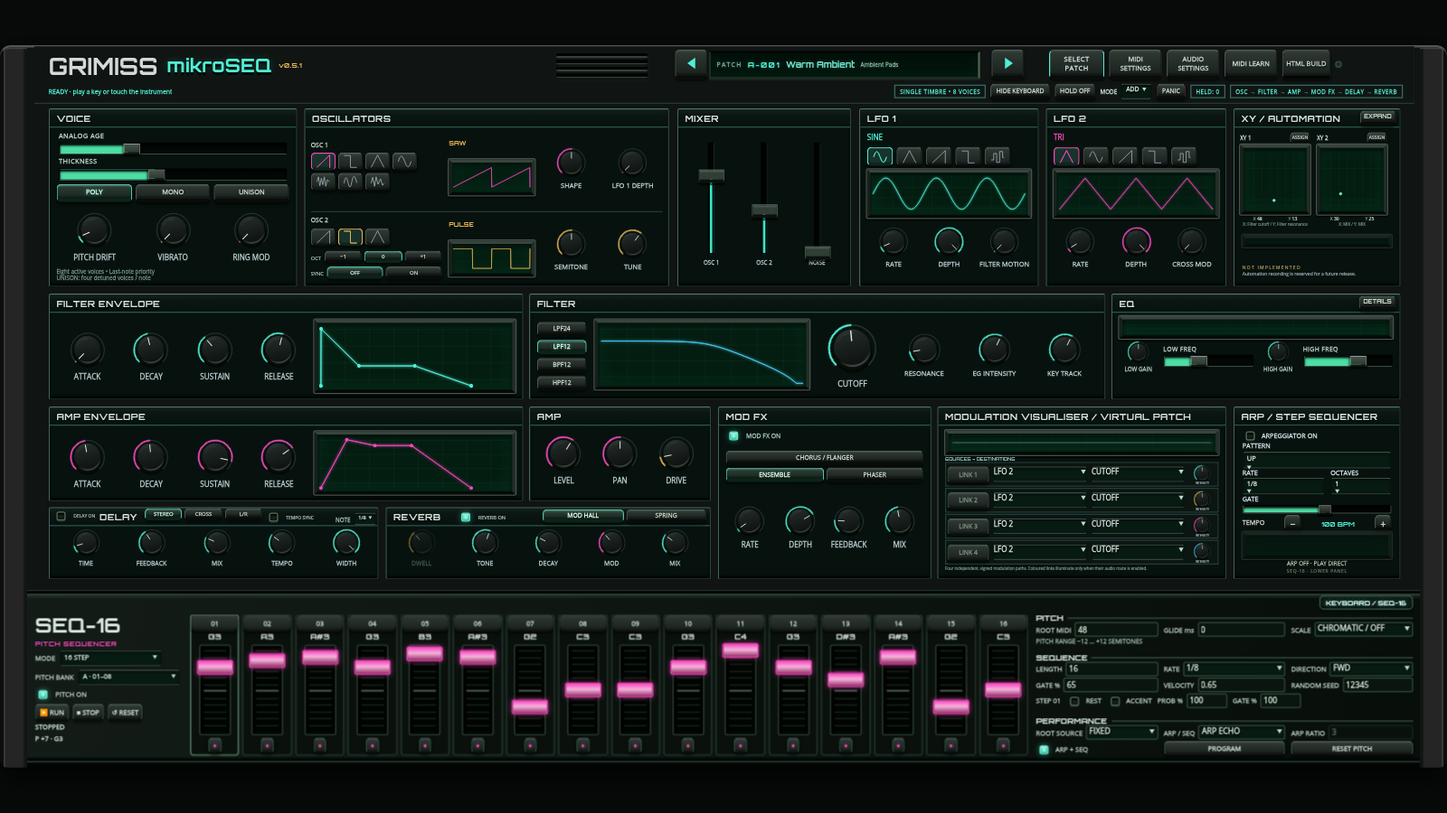
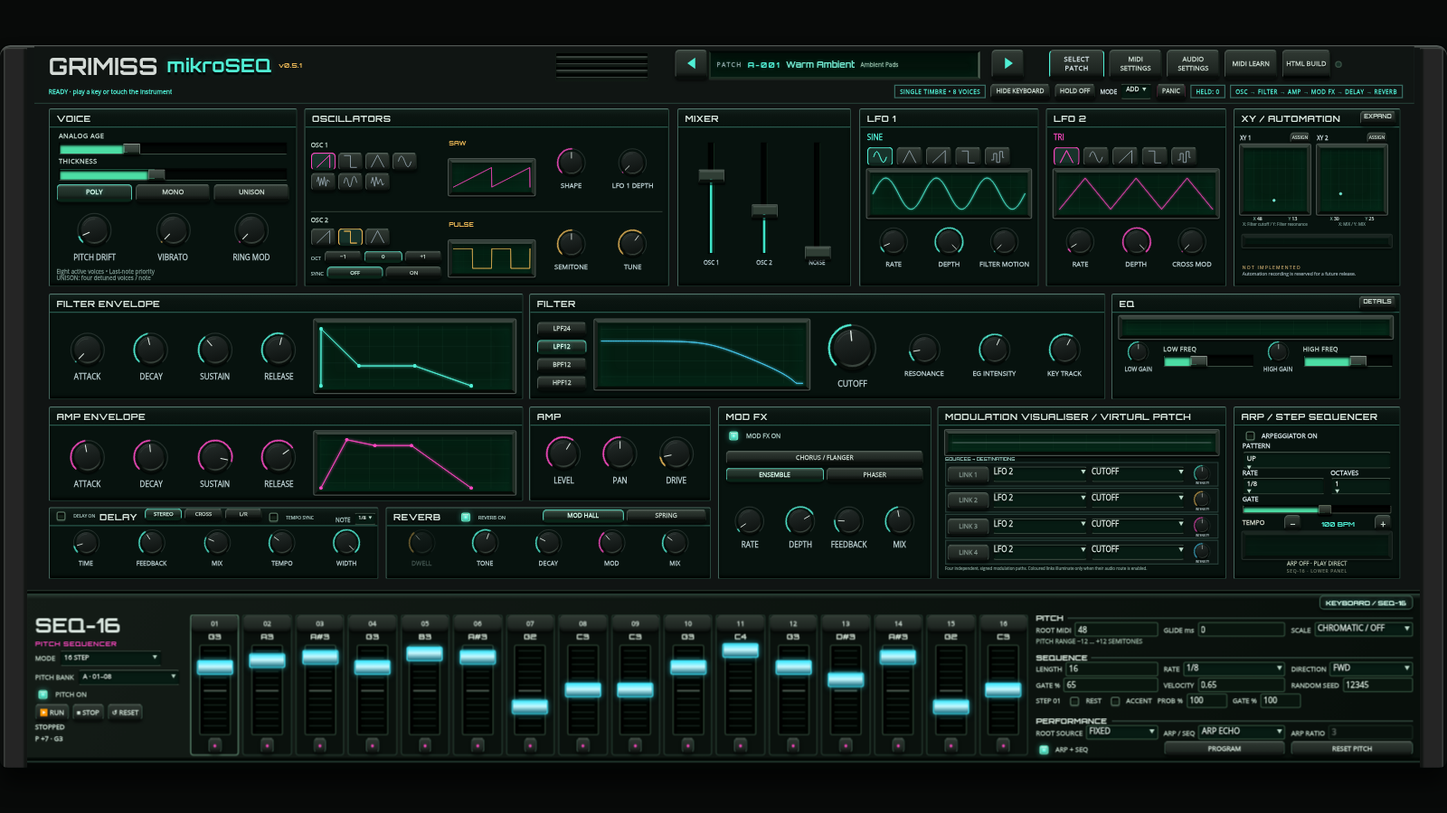
Synchronize sequencer direction controls and use cyan fader caps

diff --git a/GRIMISS_mAMB_Synth_v0_3_3_Filter_Fix.html b/GRIMISS_mAMB_Synth_v0_3_3_Filter_Fix.html
@@ -1277,7 +1277,7 @@ html.fit-screen.reference-geometry.control-refinement main .seq-face button{min-
 .seq-step .seq-track{position:relative;width:28px;flex:1;margin:2px 0;background:#010502;border:1px solid #2e4535;box-shadow:inset 2px 0 3px #000;border-radius:2px}
 .seq-scale{position:absolute;inset:2px 3px;background:repeating-linear-gradient(to top,transparent 0 5px,#47715c66 5px 6px);pointer-events:none}
 .seq-scale:after{content:'';position:absolute;left:0;right:0;top:50%;height:1px;background:#b8c9bc88}
-html.fit-screen.reference-geometry.control-refinement main .seq-face .seq-handle.pitch{position:absolute;left:-3px;width:32px!important;height:13px!important;min-height:13px!important;min-width:0!important;margin:0;transform:translateY(50%);border:1px solid #fa48c0!important;border-radius:2px!important;padding:0!important;touch-action:none;cursor:ns-resize;outline-offset:2px;background:linear-gradient(#fa48c0,#f5b4dd 45%,#973167)!important;box-shadow:0 0 5px #fa48c088!important}
+html.fit-screen.reference-geometry.control-refinement main .seq-face .seq-handle.pitch{position:absolute;left:-3px;width:32px!important;height:13px!important;min-height:13px!important;min-width:0!important;margin:0;transform:translateY(50%);border:1px solid #42eaff!important;border-radius:2px!important;padding:0!important;touch-action:none;cursor:ns-resize;outline-offset:2px;background:linear-gradient(#42eaff,#c8faff 45%,#176e80)!important;box-shadow:0 0 5px #42eaff88!important}
 .seq-step-note{display:block;height:10px;line-height:10px;font:800 7px Orbitron,monospace;color:#dbeadd;white-space:nowrap;text-align:center}
 .seq-step.pitch-active{border-color:#ffc15a!important;background:#322510;box-shadow:0 0 7px 2px #ffb52eaa,inset 0 0 7px #ffb52e88!important;z-index:1}
 .seq-step.pitch-active .seq-step-note,.seq-step.pitch-active .seq-step-number{color:#ffe3a3!important;text-shadow:0 0 4px #ffb52e}
@@ -2796,8 +2796,8 @@ function refreshInstrumentUI(){if(!window.mambInterfaceReady)return;window.mambR
  function setFace(value){face=value==='seq'?'seq':'keyboard';panel.classList.toggle('seq-show',face==='seq');keyboard.inert=face==='seq';keyboard.setAttribute('aria-hidden',String(face==='seq'));back.inert=face!=='seq';back.setAttribute('aria-hidden',String(face!=='seq'));toggle.setAttribute('aria-pressed',String(face==='seq'));try{localStorage.setItem(sessionKey,JSON.stringify({state,face}));}catch{}}
  function paintNotes(snapshot){const r=snapshot?.rootSelection,root=r&&state.rootSource!=='fixed'?r.root:state.root,scale=r&&state.rootSource==='program'?r.scale:state.scale;for(let i=0;i<16;i++){const label=slots.children[i].querySelector('.seq-step-note');label.textContent=name(seq16Quantize(root+state.pitch[i],root,scale));label.title='Root-relative sequence note; in arp modes the held arp note is transposed then scale-snapped';}}
  function paint(){paintNotes(latestEngineState?.sequencer);for(let i=0;i<16;i++){const slot=slots.children[i];slot.classList.toggle('selected',i===selected);slot.classList.toggle('rest',state.rests[i]);for(const layer of ['pitch']){const h=handles[i][layer],value=state[layer][i],normalized=(value+12)/24;h.style.bottom='calc(4px + (100% - 8px) * '+normalized+')';h.style.zIndex=focus===layer?'3':'2';h.setAttribute('aria-valuenow',value);h.setAttribute('aria-valuetext',(value>=0?'+':'')+value+' semitones');}}
- el('editBank').value=editBank;el('editBank').disabled=state.layout!=='dual8';for(const[k,raw]of Object.entries(state)){const v=state[field(k)]??raw,n=el(k);if(!n||document.activeElement===n)continue;if(n.type==='checkbox')n.checked=v;else if(!Array.isArray(v))n.value=String(v);}el('selected').textContent='STEP '+String(selected+1).padStart(2,'0');el('stepRest').checked=state.rests[selected];el('stepAccent').checked=state.accents[selected];el('stepProbability').value=String(Math.round(state.probability[selected]*100));el('stepGate').value=String(Math.round(state.stepGates[selected]*100));el('value').textContent='P '+(state.pitch[selected]>=0?'+':'')+state.pitch[selected]+' · '+name(seq16Quantize(state.root+state.pitch[selected],state.root,state.scale));el('pitchLength').max=state.layout==='dual8'?8:16;el('ratio').disabled=!state.combined||state.mode!=='poly';el('migration').textContent=state.legacyMode?'OLD DRIFT MODE REMOVED · ARP + SEQ OFF':'';paintProgram();}
- for(const n of back.querySelectorAll('.seq-settings input,.seq-settings select,.seq-left input,.seq-left select'))n.addEventListener('change',()=>{const k=n.id.slice(4);if(k==='editBank'){editBank=n.value;paint();return;}if(k==='stepGate')state.stepGates[selected]=Number(n.value)/100;else if(k==='stepRest')state.rests[selected]=n.checked;else if(k==='stepAccent')state.accents[selected]=n.checked;else if(k==='stepProbability')state.probability[selected]=Number(n.value)/100;else if(k in state){if(k==='mode'||k==='combined')delete state.legacyMode;const key=field(k);state[key]=n.type==='checkbox'?n.checked:typeof state[key]==='number'?Number(n.value):n.value;}state=mambNormalizeSeq(state);changed();});
+ el('editBank').value=editBank;el('editBank').disabled=state.layout!=='dual8';for(const[k,raw]of Object.entries(state)){const v=state[field(k)]??raw,n=el(k);if(!n||(document.activeElement===n&&n.tagName==='INPUT'&&n.type!=='checkbox'))continue;if(n.type==='checkbox')n.checked=v;else if(!Array.isArray(v))n.value=String(v);}el('selected').textContent='STEP '+String(selected+1).padStart(2,'0');el('stepRest').checked=state.rests[selected];el('stepAccent').checked=state.accents[selected];el('stepProbability').value=String(Math.round(state.probability[selected]*100));el('stepGate').value=String(Math.round(state.stepGates[selected]*100));el('value').textContent='P '+(state.pitch[selected]>=0?'+':'')+state.pitch[selected]+' · '+name(seq16Quantize(state.root+state.pitch[selected],state.root,state.scale));el('pitchLength').max=state.layout==='dual8'?8:16;el('ratio').disabled=!state.combined||state.mode!=='poly';el('migration').textContent=state.legacyMode?'OLD DRIFT MODE REMOVED · ARP + SEQ OFF':'';paintProgram();}
+ for(const n of back.querySelectorAll('.seq-settings input,.seq-settings select,.seq-left input,.seq-left select'))n.addEventListener('change',()=>{const k=n.id.slice(4);if(k==='editBank'){editBank=n.value;paint();return;}if(k==='stepGate')state.stepGates[selected]=Number(n.value)/100;else if(k==='stepRest')state.rests[selected]=n.checked;else if(k==='stepAccent')state.accents[selected]=n.checked;else if(k==='stepProbability')state.probability[selected]=Number(n.value)/100;else if(k in state){if(k==='mode'||k==='combined')delete state.legacyMode;const key=field(k);state[key]=n.type==='checkbox'?n.checked:typeof state[key]==='number'?Number(n.value):n.value;}state=mambNormalizeSeq(state);changed();if(k==='pitchDirection')sendConfig();});
  toggle.onclick=()=>setFace(face==='keyboard'?'seq':'keyboard');
  for(const action of ['run','stop','reset'])el(action).onclick=async()=>{if(action==='run')await start();sendConfig();send({type:'seqTransport',action});refreshState();};for(const layer of ['pitch'])el('reset-'+layer).onclick=()=>send({type:'seqTransport',action:'reset',layer});
  window.addEventListener('mamb-audio-ready',()=>sendConfig());window.addEventListener('mamb-panic',()=>{el('status').textContent='STOPPED · PANIC';});
@@ -2811,7 +2811,7 @@ function refreshInstrumentUI(){if(!window.mambInterfaceReady)return;window.mambR
  window.addEventListener('mamb-panic',()=>{capturedRoots.clear();programIntent=false;programRunning=false;});
  window.mambSeq16={serialize,load,setFace,edit,selectStep,captureNoteOn,captureNoteOff,releaseLocalRoots,releaseSource,openProgram,get programEdit(){return programEdit;},get face(){return face;},flush:sendConfig};
  try{const saved=JSON.parse(localStorage.getItem(sessionKey)||'null');if(saved){if(!window.mambPendingSeq16)state=mambNormalizeSeq(saved.state);face=saved.face==='seq'?'seq':'keyboard';}}catch{}
- setFace(face);paint();setInterval(()=>{if(dirty)sendConfig();const s=latestEngineState?.sequencer;paintNotes(s);if(s?.rootSelection){if(programIntent!==null&&s.rootSelection.programRunning===programIntent)programIntent=null;programRunning=programIntent??s.rootSelection.programRunning;if(state.rootSource!=='fixed'&&focus==='pitch')el('value').textContent='P '+(state.pitch[selected]>=0?'+':'')+state.pitch[selected]+' · '+name(Math.max(0,Math.min(127,s.rootSelection.root+state.pitch[selected])));el('program-run').setAttribute('aria-pressed',String(programRunning));for(let i=0;i<8;i++)strip.children[i].classList.toggle('playing',programRunning&&s.rootSelection.programSlot===i);}for(let i=0;i<16;i++){slots.children[i].classList.toggle('pitch-active',!!s?.running&&((state.pitchOn&&s.pitchStep===i)||(state.layout==='dual8'&&state.bPitchOn&&s.bankB?.pitchStep+8===i)));}el('status').textContent=s?.running&&state.combined&&!document.getElementById('arpOn').checked?'RUN · ENABLE ARP ABOVE':s?.running?'RUN · P '+String(s.pitchStep+1).padStart(2,'0'):'STOPPED';},50);window.mambSeq16Ready=true;
+ setFace(face);paint();setInterval(()=>{if(dirty)sendConfig();const s=latestEngineState?.sequencer;paintNotes(s);if(s?.rootSelection){if(programIntent!==null&&s.rootSelection.programRunning===programIntent)programIntent=null;programRunning=programIntent??s.rootSelection.programRunning;if(state.rootSource!=='fixed'&&focus==='pitch')el('value').textContent='P '+(state.pitch[selected]>=0?'+':'')+state.pitch[selected]+' · '+name(Math.max(0,Math.min(127,s.rootSelection.root+state.pitch[selected])));el('program-run').setAttribute('aria-pressed',String(programRunning));for(let i=0;i<8;i++)strip.children[i].classList.toggle('playing',programRunning&&s.rootSelection.programSlot===i);}for(let i=0;i<16;i++){slots.children[i].classList.toggle('pitch-active',!!s?.running&&((state.pitchOn&&s.pitchStep===i)||(state.layout==='dual8'&&state.bPitchOn&&s.bankB?.pitchStep+8===i)));}const dir=d=>({forward:'FWD',reverse:'REV',pendulum:'PEND',random:'RANDOM'})[d]||'FWD';el('status').textContent=s?.running&&state.combined&&!document.getElementById('arpOn').checked?'RUN · ENABLE ARP ABOVE':s?.running?(s.layout==='dual8'?'RUN · A '+dir(s.config.pitchDirection)+' / B '+dir(s.config.bPitchDirection):'RUN · P '+String(s.pitchStep+1).padStart(2,'0')+' · '+dir(s.config.pitchDirection)):'STOPPED';},50);window.mambSeq16Ready=true;
 })();
 
 </script>

diff --git a/dist/GRIMISS_mAMB_v0_5_1.html b/dist/GRIMISS_mAMB_v0_5_1.html
@@ -1277,7 +1277,7 @@ html.fit-screen.reference-geometry.control-refinement main .seq-face button{min-
 .seq-step .seq-track{position:relative;width:28px;flex:1;margin:2px 0;background:#010502;border:1px solid #2e4535;box-shadow:inset 2px 0 3px #000;border-radius:2px}
 .seq-scale{position:absolute;inset:2px 3px;background:repeating-linear-gradient(to top,transparent 0 5px,#47715c66 5px 6px);pointer-events:none}
 .seq-scale:after{content:'';position:absolute;left:0;right:0;top:50%;height:1px;background:#b8c9bc88}
-html.fit-screen.reference-geometry.control-refinement main .seq-face .seq-handle.pitch{position:absolute;left:-3px;width:32px!important;height:13px!important;min-height:13px!important;min-width:0!important;margin:0;transform:translateY(50%);border:1px solid #fa48c0!important;border-radius:2px!important;padding:0!important;touch-action:none;cursor:ns-resize;outline-offset:2px;background:linear-gradient(#fa48c0,#f5b4dd 45%,#973167)!important;box-shadow:0 0 5px #fa48c088!important}
+html.fit-screen.reference-geometry.control-refinement main .seq-face .seq-handle.pitch{position:absolute;left:-3px;width:32px!important;height:13px!important;min-height:13px!important;min-width:0!important;margin:0;transform:translateY(50%);border:1px solid #42eaff!important;border-radius:2px!important;padding:0!important;touch-action:none;cursor:ns-resize;outline-offset:2px;background:linear-gradient(#42eaff,#c8faff 45%,#176e80)!important;box-shadow:0 0 5px #42eaff88!important}
 .seq-step-note{display:block;height:10px;line-height:10px;font:800 7px Orbitron,monospace;color:#dbeadd;white-space:nowrap;text-align:center}
 .seq-step.pitch-active{border-color:#ffc15a!important;background:#322510;box-shadow:0 0 7px 2px #ffb52eaa,inset 0 0 7px #ffb52e88!important;z-index:1}
 .seq-step.pitch-active .seq-step-note,.seq-step.pitch-active .seq-step-number{color:#ffe3a3!important;text-shadow:0 0 4px #ffb52e}
@@ -2796,8 +2796,8 @@ function refreshInstrumentUI(){if(!window.mambInterfaceReady)return;window.mambR
  function setFace(value){face=value==='seq'?'seq':'keyboard';panel.classList.toggle('seq-show',face==='seq');keyboard.inert=face==='seq';keyboard.setAttribute('aria-hidden',String(face==='seq'));back.inert=face!=='seq';back.setAttribute('aria-hidden',String(face!=='seq'));toggle.setAttribute('aria-pressed',String(face==='seq'));try{localStorage.setItem(sessionKey,JSON.stringify({state,face}));}catch{}}
  function paintNotes(snapshot){const r=snapshot?.rootSelection,root=r&&state.rootSource!=='fixed'?r.root:state.root,scale=r&&state.rootSource==='program'?r.scale:state.scale;for(let i=0;i<16;i++){const label=slots.children[i].querySelector('.seq-step-note');label.textContent=name(seq16Quantize(root+state.pitch[i],root,scale));label.title='Root-relative sequence note; in arp modes the held arp note is transposed then scale-snapped';}}
  function paint(){paintNotes(latestEngineState?.sequencer);for(let i=0;i<16;i++){const slot=slots.children[i];slot.classList.toggle('selected',i===selected);slot.classList.toggle('rest',state.rests[i]);for(const layer of ['pitch']){const h=handles[i][layer],value=state[layer][i],normalized=(value+12)/24;h.style.bottom='calc(4px + (100% - 8px) * '+normalized+')';h.style.zIndex=focus===layer?'3':'2';h.setAttribute('aria-valuenow',value);h.setAttribute('aria-valuetext',(value>=0?'+':'')+value+' semitones');}}
- el('editBank').value=editBank;el('editBank').disabled=state.layout!=='dual8';for(const[k,raw]of Object.entries(state)){const v=state[field(k)]??raw,n=el(k);if(!n||document.activeElement===n)continue;if(n.type==='checkbox')n.checked=v;else if(!Array.isArray(v))n.value=String(v);}el('selected').textContent='STEP '+String(selected+1).padStart(2,'0');el('stepRest').checked=state.rests[selected];el('stepAccent').checked=state.accents[selected];el('stepProbability').value=String(Math.round(state.probability[selected]*100));el('stepGate').value=String(Math.round(state.stepGates[selected]*100));el('value').textContent='P '+(state.pitch[selected]>=0?'+':'')+state.pitch[selected]+' · '+name(seq16Quantize(state.root+state.pitch[selected],state.root,state.scale));el('pitchLength').max=state.layout==='dual8'?8:16;el('ratio').disabled=!state.combined||state.mode!=='poly';el('migration').textContent=state.legacyMode?'OLD DRIFT MODE REMOVED · ARP + SEQ OFF':'';paintProgram();}
- for(const n of back.querySelectorAll('.seq-settings input,.seq-settings select,.seq-left input,.seq-left select'))n.addEventListener('change',()=>{const k=n.id.slice(4);if(k==='editBank'){editBank=n.value;paint();return;}if(k==='stepGate')state.stepGates[selected]=Number(n.value)/100;else if(k==='stepRest')state.rests[selected]=n.checked;else if(k==='stepAccent')state.accents[selected]=n.checked;else if(k==='stepProbability')state.probability[selected]=Number(n.value)/100;else if(k in state){if(k==='mode'||k==='combined')delete state.legacyMode;const key=field(k);state[key]=n.type==='checkbox'?n.checked:typeof state[key]==='number'?Number(n.value):n.value;}state=mambNormalizeSeq(state);changed();});
+ el('editBank').value=editBank;el('editBank').disabled=state.layout!=='dual8';for(const[k,raw]of Object.entries(state)){const v=state[field(k)]??raw,n=el(k);if(!n||(document.activeElement===n&&n.tagName==='INPUT'&&n.type!=='checkbox'))continue;if(n.type==='checkbox')n.checked=v;else if(!Array.isArray(v))n.value=String(v);}el('selected').textContent='STEP '+String(selected+1).padStart(2,'0');el('stepRest').checked=state.rests[selected];el('stepAccent').checked=state.accents[selected];el('stepProbability').value=String(Math.round(state.probability[selected]*100));el('stepGate').value=String(Math.round(state.stepGates[selected]*100));el('value').textContent='P '+(state.pitch[selected]>=0?'+':'')+state.pitch[selected]+' · '+name(seq16Quantize(state.root+state.pitch[selected],state.root,state.scale));el('pitchLength').max=state.layout==='dual8'?8:16;el('ratio').disabled=!state.combined||state.mode!=='poly';el('migration').textContent=state.legacyMode?'OLD DRIFT MODE REMOVED · ARP + SEQ OFF':'';paintProgram();}
+ for(const n of back.querySelectorAll('.seq-settings input,.seq-settings select,.seq-left input,.seq-left select'))n.addEventListener('change',()=>{const k=n.id.slice(4);if(k==='editBank'){editBank=n.value;paint();return;}if(k==='stepGate')state.stepGates[selected]=Number(n.value)/100;else if(k==='stepRest')state.rests[selected]=n.checked;else if(k==='stepAccent')state.accents[selected]=n.checked;else if(k==='stepProbability')state.probability[selected]=Number(n.value)/100;else if(k in state){if(k==='mode'||k==='combined')delete state.legacyMode;const key=field(k);state[key]=n.type==='checkbox'?n.checked:typeof state[key]==='number'?Number(n.value):n.value;}state=mambNormalizeSeq(state);changed();if(k==='pitchDirection')sendConfig();});
  toggle.onclick=()=>setFace(face==='keyboard'?'seq':'keyboard');
  for(const action of ['run','stop','reset'])el(action).onclick=async()=>{if(action==='run')await start();sendConfig();send({type:'seqTransport',action});refreshState();};for(const layer of ['pitch'])el('reset-'+layer).onclick=()=>send({type:'seqTransport',action:'reset',layer});
  window.addEventListener('mamb-audio-ready',()=>sendConfig());window.addEventListener('mamb-panic',()=>{el('status').textContent='STOPPED · PANIC';});
@@ -2811,7 +2811,7 @@ function refreshInstrumentUI(){if(!window.mambInterfaceReady)return;window.mambR
  window.addEventListener('mamb-panic',()=>{capturedRoots.clear();programIntent=false;programRunning=false;});
  window.mambSeq16={serialize,load,setFace,edit,selectStep,captureNoteOn,captureNoteOff,releaseLocalRoots,releaseSource,openProgram,get programEdit(){return programEdit;},get face(){return face;},flush:sendConfig};
  try{const saved=JSON.parse(localStorage.getItem(sessionKey)||'null');if(saved){if(!window.mambPendingSeq16)state=mambNormalizeSeq(saved.state);face=saved.face==='seq'?'seq':'keyboard';}}catch{}
- setFace(face);paint();setInterval(()=>{if(dirty)sendConfig();const s=latestEngineState?.sequencer;paintNotes(s);if(s?.rootSelection){if(programIntent!==null&&s.rootSelection.programRunning===programIntent)programIntent=null;programRunning=programIntent??s.rootSelection.programRunning;if(state.rootSource!=='fixed'&&focus==='pitch')el('value').textContent='P '+(state.pitch[selected]>=0?'+':'')+state.pitch[selected]+' · '+name(Math.max(0,Math.min(127,s.rootSelection.root+state.pitch[selected])));el('program-run').setAttribute('aria-pressed',String(programRunning));for(let i=0;i<8;i++)strip.children[i].classList.toggle('playing',programRunning&&s.rootSelection.programSlot===i);}for(let i=0;i<16;i++){slots.children[i].classList.toggle('pitch-active',!!s?.running&&((state.pitchOn&&s.pitchStep===i)||(state.layout==='dual8'&&state.bPitchOn&&s.bankB?.pitchStep+8===i)));}el('status').textContent=s?.running&&state.combined&&!document.getElementById('arpOn').checked?'RUN · ENABLE ARP ABOVE':s?.running?'RUN · P '+String(s.pitchStep+1).padStart(2,'0'):'STOPPED';},50);window.mambSeq16Ready=true;
+ setFace(face);paint();setInterval(()=>{if(dirty)sendConfig();const s=latestEngineState?.sequencer;paintNotes(s);if(s?.rootSelection){if(programIntent!==null&&s.rootSelection.programRunning===programIntent)programIntent=null;programRunning=programIntent??s.rootSelection.programRunning;if(state.rootSource!=='fixed'&&focus==='pitch')el('value').textContent='P '+(state.pitch[selected]>=0?'+':'')+state.pitch[selected]+' · '+name(Math.max(0,Math.min(127,s.rootSelection.root+state.pitch[selected])));el('program-run').setAttribute('aria-pressed',String(programRunning));for(let i=0;i<8;i++)strip.children[i].classList.toggle('playing',programRunning&&s.rootSelection.programSlot===i);}for(let i=0;i<16;i++){slots.children[i].classList.toggle('pitch-active',!!s?.running&&((state.pitchOn&&s.pitchStep===i)||(state.layout==='dual8'&&state.bPitchOn&&s.bankB?.pitchStep+8===i)));}const dir=d=>({forward:'FWD',reverse:'REV',pendulum:'PEND',random:'RANDOM'})[d]||'FWD';el('status').textContent=s?.running&&state.combined&&!document.getElementById('arpOn').checked?'RUN · ENABLE ARP ABOVE':s?.running?(s.layout==='dual8'?'RUN · A '+dir(s.config.pitchDirection)+' / B '+dir(s.config.bPitchDirection):'RUN · P '+String(s.pitchStep+1).padStart(2,'0')+' · '+dir(s.config.pitchDirection)):'STOPPED';},50);window.mambSeq16Ready=true;
 })();
 
 </script>

diff --git a/dist/GRIMISS_mAMB_v0_7.html b/dist/GRIMISS_mAMB_v0_7.html
@@ -1277,7 +1277,7 @@ html.fit-screen.reference-geometry.control-refinement main .seq-face button{min-
 .seq-step .seq-track{position:relative;width:28px;flex:1;margin:2px 0;background:#010502;border:1px solid #2e4535;box-shadow:inset 2px 0 3px #000;border-radius:2px}
 .seq-scale{position:absolute;inset:2px 3px;background:repeating-linear-gradient(to top,transparent 0 5px,#47715c66 5px 6px);pointer-events:none}
 .seq-scale:after{content:'';position:absolute;left:0;right:0;top:50%;height:1px;background:#b8c9bc88}
-html.fit-screen.reference-geometry.control-refinement main .seq-face .seq-handle.pitch{position:absolute;left:-3px;width:32px!important;height:13px!important;min-height:13px!important;min-width:0!important;margin:0;transform:translateY(50%);border:1px solid #fa48c0!important;border-radius:2px!important;padding:0!important;touch-action:none;cursor:ns-resize;outline-offset:2px;background:linear-gradient(#fa48c0,#f5b4dd 45%,#973167)!important;box-shadow:0 0 5px #fa48c088!important}
+html.fit-screen.reference-geometry.control-refinement main .seq-face .seq-handle.pitch{position:absolute;left:-3px;width:32px!important;height:13px!important;min-height:13px!important;min-width:0!important;margin:0;transform:translateY(50%);border:1px solid #42eaff!important;border-radius:2px!important;padding:0!important;touch-action:none;cursor:ns-resize;outline-offset:2px;background:linear-gradient(#42eaff,#c8faff 45%,#176e80)!important;box-shadow:0 0 5px #42eaff88!important}
 .seq-step-note{display:block;height:10px;line-height:10px;font:800 7px Orbitron,monospace;color:#dbeadd;white-space:nowrap;text-align:center}
 .seq-step.pitch-active{border-color:#ffc15a!important;background:#322510;box-shadow:0 0 7px 2px #ffb52eaa,inset 0 0 7px #ffb52e88!important;z-index:1}
 .seq-step.pitch-active .seq-step-note,.seq-step.pitch-active .seq-step-number{color:#ffe3a3!important;text-shadow:0 0 4px #ffb52e}
@@ -2796,8 +2796,8 @@ function refreshInstrumentUI(){if(!window.mambInterfaceReady)return;window.mambR
  function setFace(value){face=value==='seq'?'seq':'keyboard';panel.classList.toggle('seq-show',face==='seq');keyboard.inert=face==='seq';keyboard.setAttribute('aria-hidden',String(face==='seq'));back.inert=face!=='seq';back.setAttribute('aria-hidden',String(face!=='seq'));toggle.setAttribute('aria-pressed',String(face==='seq'));try{localStorage.setItem(sessionKey,JSON.stringify({state,face}));}catch{}}
  function paintNotes(snapshot){const r=snapshot?.rootSelection,root=r&&state.rootSource!=='fixed'?r.root:state.root,scale=r&&state.rootSource==='program'?r.scale:state.scale;for(let i=0;i<16;i++){const label=slots.children[i].querySelector('.seq-step-note');label.textContent=name(seq16Quantize(root+state.pitch[i],root,scale));label.title='Root-relative sequence note; in arp modes the held arp note is transposed then scale-snapped';}}
  function paint(){paintNotes(latestEngineState?.sequencer);for(let i=0;i<16;i++){const slot=slots.children[i];slot.classList.toggle('selected',i===selected);slot.classList.toggle('rest',state.rests[i]);for(const layer of ['pitch']){const h=handles[i][layer],value=state[layer][i],normalized=(value+12)/24;h.style.bottom='calc(4px + (100% - 8px) * '+normalized+')';h.style.zIndex=focus===layer?'3':'2';h.setAttribute('aria-valuenow',value);h.setAttribute('aria-valuetext',(value>=0?'+':'')+value+' semitones');}}
- el('editBank').value=editBank;el('editBank').disabled=state.layout!=='dual8';for(const[k,raw]of Object.entries(state)){const v=state[field(k)]??raw,n=el(k);if(!n||document.activeElement===n)continue;if(n.type==='checkbox')n.checked=v;else if(!Array.isArray(v))n.value=String(v);}el('selected').textContent='STEP '+String(selected+1).padStart(2,'0');el('stepRest').checked=state.rests[selected];el('stepAccent').checked=state.accents[selected];el('stepProbability').value=String(Math.round(state.probability[selected]*100));el('stepGate').value=String(Math.round(state.stepGates[selected]*100));el('value').textContent='P '+(state.pitch[selected]>=0?'+':'')+state.pitch[selected]+' · '+name(seq16Quantize(state.root+state.pitch[selected],state.root,state.scale));el('pitchLength').max=state.layout==='dual8'?8:16;el('ratio').disabled=!state.combined||state.mode!=='poly';el('migration').textContent=state.legacyMode?'OLD DRIFT MODE REMOVED · ARP + SEQ OFF':'';paintProgram();}
- for(const n of back.querySelectorAll('.seq-settings input,.seq-settings select,.seq-left input,.seq-left select'))n.addEventListener('change',()=>{const k=n.id.slice(4);if(k==='editBank'){editBank=n.value;paint();return;}if(k==='stepGate')state.stepGates[selected]=Number(n.value)/100;else if(k==='stepRest')state.rests[selected]=n.checked;else if(k==='stepAccent')state.accents[selected]=n.checked;else if(k==='stepProbability')state.probability[selected]=Number(n.value)/100;else if(k in state){if(k==='mode'||k==='combined')delete state.legacyMode;const key=field(k);state[key]=n.type==='checkbox'?n.checked:typeof state[key]==='number'?Number(n.value):n.value;}state=mambNormalizeSeq(state);changed();});
+ el('editBank').value=editBank;el('editBank').disabled=state.layout!=='dual8';for(const[k,raw]of Object.entries(state)){const v=state[field(k)]??raw,n=el(k);if(!n||(document.activeElement===n&&n.tagName==='INPUT'&&n.type!=='checkbox'))continue;if(n.type==='checkbox')n.checked=v;else if(!Array.isArray(v))n.value=String(v);}el('selected').textContent='STEP '+String(selected+1).padStart(2,'0');el('stepRest').checked=state.rests[selected];el('stepAccent').checked=state.accents[selected];el('stepProbability').value=String(Math.round(state.probability[selected]*100));el('stepGate').value=String(Math.round(state.stepGates[selected]*100));el('value').textContent='P '+(state.pitch[selected]>=0?'+':'')+state.pitch[selected]+' · '+name(seq16Quantize(state.root+state.pitch[selected],state.root,state.scale));el('pitchLength').max=state.layout==='dual8'?8:16;el('ratio').disabled=!state.combined||state.mode!=='poly';el('migration').textContent=state.legacyMode?'OLD DRIFT MODE REMOVED · ARP + SEQ OFF':'';paintProgram();}
+ for(const n of back.querySelectorAll('.seq-settings input,.seq-settings select,.seq-left input,.seq-left select'))n.addEventListener('change',()=>{const k=n.id.slice(4);if(k==='editBank'){editBank=n.value;paint();return;}if(k==='stepGate')state.stepGates[selected]=Number(n.value)/100;else if(k==='stepRest')state.rests[selected]=n.checked;else if(k==='stepAccent')state.accents[selected]=n.checked;else if(k==='stepProbability')state.probability[selected]=Number(n.value)/100;else if(k in state){if(k==='mode'||k==='combined')delete state.legacyMode;const key=field(k);state[key]=n.type==='checkbox'?n.checked:typeof state[key]==='number'?Number(n.value):n.value;}state=mambNormalizeSeq(state);changed();if(k==='pitchDirection')sendConfig();});
  toggle.onclick=()=>setFace(face==='keyboard'?'seq':'keyboard');
  for(const action of ['run','stop','reset'])el(action).onclick=async()=>{if(action==='run')await start();sendConfig();send({type:'seqTransport',action});refreshState();};for(const layer of ['pitch'])el('reset-'+layer).onclick=()=>send({type:'seqTransport',action:'reset',layer});
  window.addEventListener('mamb-audio-ready',()=>sendConfig());window.addEventListener('mamb-panic',()=>{el('status').textContent='STOPPED · PANIC';});
@@ -2811,7 +2811,7 @@ function refreshInstrumentUI(){if(!window.mambInterfaceReady)return;window.mambR
  window.addEventListener('mamb-panic',()=>{capturedRoots.clear();programIntent=false;programRunning=false;});
  window.mambSeq16={serialize,load,setFace,edit,selectStep,captureNoteOn,captureNoteOff,releaseLocalRoots,releaseSource,openProgram,get programEdit(){return programEdit;},get face(){return face;},flush:sendConfig};
  try{const saved=JSON.parse(localStorage.getItem(sessionKey)||'null');if(saved){if(!window.mambPendingSeq16)state=mambNormalizeSeq(saved.state);face=saved.face==='seq'?'seq':'keyboard';}}catch{}
- setFace(face);paint();setInterval(()=>{if(dirty)sendConfig();const s=latestEngineState?.sequencer;paintNotes(s);if(s?.rootSelection){if(programIntent!==null&&s.rootSelection.programRunning===programIntent)programIntent=null;programRunning=programIntent??s.rootSelection.programRunning;if(state.rootSource!=='fixed'&&focus==='pitch')el('value').textContent='P '+(state.pitch[selected]>=0?'+':'')+state.pitch[selected]+' · '+name(Math.max(0,Math.min(127,s.rootSelection.root+state.pitch[selected])));el('program-run').setAttribute('aria-pressed',String(programRunning));for(let i=0;i<8;i++)strip.children[i].classList.toggle('playing',programRunning&&s.rootSelection.programSlot===i);}for(let i=0;i<16;i++){slots.children[i].classList.toggle('pitch-active',!!s?.running&&((state.pitchOn&&s.pitchStep===i)||(state.layout==='dual8'&&state.bPitchOn&&s.bankB?.pitchStep+8===i)));}el('status').textContent=s?.running&&state.combined&&!document.getElementById('arpOn').checked?'RUN · ENABLE ARP ABOVE':s?.running?'RUN · P '+String(s.pitchStep+1).padStart(2,'0'):'STOPPED';},50);window.mambSeq16Ready=true;
+ setFace(face);paint();setInterval(()=>{if(dirty)sendConfig();const s=latestEngineState?.sequencer;paintNotes(s);if(s?.rootSelection){if(programIntent!==null&&s.rootSelection.programRunning===programIntent)programIntent=null;programRunning=programIntent??s.rootSelection.programRunning;if(state.rootSource!=='fixed'&&focus==='pitch')el('value').textContent='P '+(state.pitch[selected]>=0?'+':'')+state.pitch[selected]+' · '+name(Math.max(0,Math.min(127,s.rootSelection.root+state.pitch[selected])));el('program-run').setAttribute('aria-pressed',String(programRunning));for(let i=0;i<8;i++)strip.children[i].classList.toggle('playing',programRunning&&s.rootSelection.programSlot===i);}for(let i=0;i<16;i++){slots.children[i].classList.toggle('pitch-active',!!s?.running&&((state.pitchOn&&s.pitchStep===i)||(state.layout==='dual8'&&state.bPitchOn&&s.bankB?.pitchStep+8===i)));}const dir=d=>({forward:'FWD',reverse:'REV',pendulum:'PEND',random:'RANDOM'})[d]||'FWD';el('status').textContent=s?.running&&state.combined&&!document.getElementById('arpOn').checked?'RUN · ENABLE ARP ABOVE':s?.running?(s.layout==='dual8'?'RUN · A '+dir(s.config.pitchDirection)+' / B '+dir(s.config.bPitchDirection):'RUN · P '+String(s.pitchStep+1).padStart(2,'0')+' · '+dir(s.config.pitchDirection)):'STOPPED';},50);window.mambSeq16Ready=true;
 })();
 
 </script>

diff --git a/src/sequencer-ui.js b/src/sequencer-ui.js
@@ -31,8 +31,8 @@
  function setFace(value){face=value==='seq'?'seq':'keyboard';panel.classList.toggle('seq-show',face==='seq');keyboard.inert=face==='seq';keyboard.setAttribute('aria-hidden',String(face==='seq'));back.inert=face!=='seq';back.setAttribute('aria-hidden',String(face!=='seq'));toggle.setAttribute('aria-pressed',String(face==='seq'));try{localStorage.setItem(sessionKey,JSON.stringify({state,face}));}catch{}}
  function paintNotes(snapshot){const r=snapshot?.rootSelection,root=r&&state.rootSource!=='fixed'?r.root:state.root,scale=r&&state.rootSource==='program'?r.scale:state.scale;for(let i=0;i<16;i++){const label=slots.children[i].querySelector('.seq-step-note');label.textContent=name(seq16Quantize(root+state.pitch[i],root,scale));label.title='Root-relative sequence note; in arp modes the held arp note is transposed then scale-snapped';}}
  function paint(){paintNotes(latestEngineState?.sequencer);for(let i=0;i<16;i++){const slot=slots.children[i];slot.classList.toggle('selected',i===selected);slot.classList.toggle('rest',state.rests[i]);for(const layer of ['pitch']){const h=handles[i][layer],value=state[layer][i],normalized=(value+12)/24;h.style.bottom='calc(4px + (100% - 8px) * '+normalized+')';h.style.zIndex=focus===layer?'3':'2';h.setAttribute('aria-valuenow',value);h.setAttribute('aria-valuetext',(value>=0?'+':'')+value+' semitones');}}
- el('editBank').value=editBank;el('editBank').disabled=state.layout!=='dual8';for(const[k,raw]of Object.entries(state)){const v=state[field(k)]??raw,n=el(k);if(!n||document.activeElement===n)continue;if(n.type==='checkbox')n.checked=v;else if(!Array.isArray(v))n.value=String(v);}el('selected').textContent='STEP '+String(selected+1).padStart(2,'0');el('stepRest').checked=state.rests[selected];el('stepAccent').checked=state.accents[selected];el('stepProbability').value=String(Math.round(state.probability[selected]*100));el('stepGate').value=String(Math.round(state.stepGates[selected]*100));el('value').textContent='P '+(state.pitch[selected]>=0?'+':'')+state.pitch[selected]+' · '+name(seq16Quantize(state.root+state.pitch[selected],state.root,state.scale));el('pitchLength').max=state.layout==='dual8'?8:16;el('ratio').disabled=!state.combined||state.mode!=='poly';el('migration').textContent=state.legacyMode?'OLD DRIFT MODE REMOVED · ARP + SEQ OFF':'';paintProgram();}
- for(const n of back.querySelectorAll('.seq-settings input,.seq-settings select,.seq-left input,.seq-left select'))n.addEventListener('change',()=>{const k=n.id.slice(4);if(k==='editBank'){editBank=n.value;paint();return;}if(k==='stepGate')state.stepGates[selected]=Number(n.value)/100;else if(k==='stepRest')state.rests[selected]=n.checked;else if(k==='stepAccent')state.accents[selected]=n.checked;else if(k==='stepProbability')state.probability[selected]=Number(n.value)/100;else if(k in state){if(k==='mode'||k==='combined')delete state.legacyMode;const key=field(k);state[key]=n.type==='checkbox'?n.checked:typeof state[key]==='number'?Number(n.value):n.value;}state=mambNormalizeSeq(state);changed();});
+ el('editBank').value=editBank;el('editBank').disabled=state.layout!=='dual8';for(const[k,raw]of Object.entries(state)){const v=state[field(k)]??raw,n=el(k);if(!n||(document.activeElement===n&&n.tagName==='INPUT'&&n.type!=='checkbox'))continue;if(n.type==='checkbox')n.checked=v;else if(!Array.isArray(v))n.value=String(v);}el('selected').textContent='STEP '+String(selected+1).padStart(2,'0');el('stepRest').checked=state.rests[selected];el('stepAccent').checked=state.accents[selected];el('stepProbability').value=String(Math.round(state.probability[selected]*100));el('stepGate').value=String(Math.round(state.stepGates[selected]*100));el('value').textContent='P '+(state.pitch[selected]>=0?'+':'')+state.pitch[selected]+' · '+name(seq16Quantize(state.root+state.pitch[selected],state.root,state.scale));el('pitchLength').max=state.layout==='dual8'?8:16;el('ratio').disabled=!state.combined||state.mode!=='poly';el('migration').textContent=state.legacyMode?'OLD DRIFT MODE REMOVED · ARP + SEQ OFF':'';paintProgram();}
+ for(const n of back.querySelectorAll('.seq-settings input,.seq-settings select,.seq-left input,.seq-left select'))n.addEventListener('change',()=>{const k=n.id.slice(4);if(k==='editBank'){editBank=n.value;paint();return;}if(k==='stepGate')state.stepGates[selected]=Number(n.value)/100;else if(k==='stepRest')state.rests[selected]=n.checked;else if(k==='stepAccent')state.accents[selected]=n.checked;else if(k==='stepProbability')state.probability[selected]=Number(n.value)/100;else if(k in state){if(k==='mode'||k==='combined')delete state.legacyMode;const key=field(k);state[key]=n.type==='checkbox'?n.checked:typeof state[key]==='number'?Number(n.value):n.value;}state=mambNormalizeSeq(state);changed();if(k==='pitchDirection')sendConfig();});
  toggle.onclick=()=>setFace(face==='keyboard'?'seq':'keyboard');
  for(const action of ['run','stop','reset'])el(action).onclick=async()=>{if(action==='run')await start();sendConfig();send({type:'seqTransport',action});refreshState();};for(const layer of ['pitch'])el('reset-'+layer).onclick=()=>send({type:'seqTransport',action:'reset',layer});
  window.addEventListener('mamb-audio-ready',()=>sendConfig());window.addEventListener('mamb-panic',()=>{el('status').textContent='STOPPED · PANIC';});
@@ -46,5 +46,5 @@
  window.addEventListener('mamb-panic',()=>{capturedRoots.clear();programIntent=false;programRunning=false;});
  window.mambSeq16={serialize,load,setFace,edit,selectStep,captureNoteOn,captureNoteOff,releaseLocalRoots,releaseSource,openProgram,get programEdit(){return programEdit;},get face(){return face;},flush:sendConfig};
  try{const saved=JSON.parse(localStorage.getItem(sessionKey)||'null');if(saved){if(!window.mambPendingSeq16)state=mambNormalizeSeq(saved.state);face=saved.face==='seq'?'seq':'keyboard';}}catch{}
- setFace(face);paint();setInterval(()=>{if(dirty)sendConfig();const s=latestEngineState?.sequencer;paintNotes(s);if(s?.rootSelection){if(programIntent!==null&&s.rootSelection.programRunning===programIntent)programIntent=null;programRunning=programIntent??s.rootSelection.programRunning;if(state.rootSource!=='fixed'&&focus==='pitch')el('value').textContent='P '+(state.pitch[selected]>=0?'+':'')+state.pitch[selected]+' · '+name(Math.max(0,Math.min(127,s.rootSelection.root+state.pitch[selected])));el('program-run').setAttribute('aria-pressed',String(programRunning));for(let i=0;i<8;i++)strip.children[i].classList.toggle('playing',programRunning&&s.rootSelection.programSlot===i);}for(let i=0;i<16;i++){slots.children[i].classList.toggle('pitch-active',!!s?.running&&((state.pitchOn&&s.pitchStep===i)||(state.layout==='dual8'&&state.bPitchOn&&s.bankB?.pitchStep+8===i)));}el('status').textContent=s?.running&&state.combined&&!document.getElementById('arpOn').checked?'RUN · ENABLE ARP ABOVE':s?.running?'RUN · P '+String(s.pitchStep+1).padStart(2,'0'):'STOPPED';},50);window.mambSeq16Ready=true;
+ setFace(face);paint();setInterval(()=>{if(dirty)sendConfig();const s=latestEngineState?.sequencer;paintNotes(s);if(s?.rootSelection){if(programIntent!==null&&s.rootSelection.programRunning===programIntent)programIntent=null;programRunning=programIntent??s.rootSelection.programRunning;if(state.rootSource!=='fixed'&&focus==='pitch')el('value').textContent='P '+(state.pitch[selected]>=0?'+':'')+state.pitch[selected]+' · '+name(Math.max(0,Math.min(127,s.rootSelection.root+state.pitch[selected])));el('program-run').setAttribute('aria-pressed',String(programRunning));for(let i=0;i<8;i++)strip.children[i].classList.toggle('playing',programRunning&&s.rootSelection.programSlot===i);}for(let i=0;i<16;i++){slots.children[i].classList.toggle('pitch-active',!!s?.running&&((state.pitchOn&&s.pitchStep===i)||(state.layout==='dual8'&&state.bPitchOn&&s.bankB?.pitchStep+8===i)));}const dir=d=>({forward:'FWD',reverse:'REV',pendulum:'PEND',random:'RANDOM'})[d]||'FWD';el('status').textContent=s?.running&&state.combined&&!document.getElementById('arpOn').checked?'RUN · ENABLE ARP ABOVE':s?.running?(s.layout==='dual8'?'RUN · A '+dir(s.config.pitchDirection)+' / B '+dir(s.config.bPitchDirection):'RUN · P '+String(s.pitchStep+1).padStart(2,'0')+' · '+dir(s.config.pitchDirection)):'STOPPED';},50);window.mambSeq16Ready=true;
 })();

diff --git a/src/sequencer.css b/src/sequencer.css
@@ -24,7 +24,7 @@ html.fit-screen.reference-geometry.control-refinement main .seq-face button{min-
 .seq-step .seq-track{position:relative;width:28px;flex:1;margin:2px 0;background:#010502;border:1px solid #2e4535;box-shadow:inset 2px 0 3px #000;border-radius:2px}
 .seq-scale{position:absolute;inset:2px 3px;background:repeating-linear-gradient(to top,transparent 0 5px,#47715c66 5px 6px);pointer-events:none}
 .seq-scale:after{content:'';position:absolute;left:0;right:0;top:50%;height:1px;background:#b8c9bc88}
-html.fit-screen.reference-geometry.control-refinement main .seq-face .seq-handle.pitch{position:absolute;left:-3px;width:32px!important;height:13px!important;min-height:13px!important;min-width:0!important;margin:0;transform:translateY(50%);border:1px solid #fa48c0!important;border-radius:2px!important;padding:0!important;touch-action:none;cursor:ns-resize;outline-offset:2px;background:linear-gradient(#fa48c0,#f5b4dd 45%,#973167)!important;box-shadow:0 0 5px #fa48c088!important}
+html.fit-screen.reference-geometry.control-refinement main .seq-face .seq-handle.pitch{position:absolute;left:-3px;width:32px!important;height:13px!important;min-height:13px!important;min-width:0!important;margin:0;transform:translateY(50%);border:1px solid #42eaff!important;border-radius:2px!important;padding:0!important;touch-action:none;cursor:ns-resize;outline-offset:2px;background:linear-gradient(#42eaff,#c8faff 45%,#176e80)!important;box-shadow:0 0 5px #42eaff88!important}
 .seq-step-note{display:block;height:10px;line-height:10px;font:800 7px Orbitron,monospace;color:#dbeadd;white-space:nowrap;text-align:center}
 .seq-step.pitch-active{border-color:#ffc15a!important;background:#322510;box-shadow:0 0 7px 2px #ffb52eaa,inset 0 0 7px #ffb52e88!important;z-index:1}
 .seq-step.pitch-active .seq-step-note,.seq-step.pitch-active .seq-step-number{color:#ffe3a3!important;text-shadow:0 0 4px #ffb52e}

diff --git a/TEST_RESULTS.md b/TEST_RESULTS.md
@@ -203,3 +203,7 @@ PASS: audio.cjs, ownership-modulation.cjs, instrument.cjs, analog.cjs and update
 PASS: Chromium sequencer/root-program/DUAL 8 browser coverage and all 11 workflow groups, including actual audio through face switches, two simultaneous pitch touches, wheel/arrow/drag, migrated patch notice, reduced motion, fallback, XY assignment and real parameter changes, ADSR editors, MIDI-map and patch persistence. Both faces fit at 1920×1080 and 1600×900.
 
 KNOWN PRE-EXISTING FAILURE: expressive-sound.cjs age/thickness processing assertions pass, but its final hidden HTML velocity-default assertion expects 0 while both the rollback and current interface source contain 50. No velocity/UI synthesis default was changed in this task. Physical hardware and human listening are unverified. Historical green-lane tests were replaced with pitch/migration coverage; they are not advertised as passing active features.
+
+## 2026-11-05 — direction sync / cyan caps
+
+PASS tests/seq-direction-browser.cjs: reproduced focused FWD vs recalled RANDOM mismatch before fix; verifies corrected display, real audio-clock traces for all four directions and RANDOM→FWD, independent DUAL 8 directions, live direction status, persisted directions and sixteen computed cyan cap gradients/borders/glows. Screenshots at 1920×1080 and 1600×900. Existing sequencer browser, core pitch/gate/migration tests, root-program tests and 30-case pitch audio compatibility checks also pass. No DSP changes or physical-device claims.

diff --git a/DEVELOPMENT_LOG.md b/DEVELOPMENT_LOG.md
@@ -164,3 +164,7 @@ Added non-destructive scale quantisation (ten options including Chromatic/Off), 
 ## 2026-11-05 — approved pitch-only SEQ-16 simplification
 
 Removed secondary green modulation and LINK, its scheduler/state/UI and SEQ-only synth parameter adapter. Retained the existing pink scheduler, root/program helper and independent note ports. User-approved mode set: TRANSPOSE, ARP GATE, POLYMETRIC, ARP ECHO. Legacy removed modes disable combined operation and show a migration notice. Reorganised lower controls into PITCH / SEQUENCE / PERFORMANCE with larger pink caps/travel; keyboard flip and upper geometry retained. See SEQ16_PITCH_ONLY.md for compatibility, verification and the pre-existing hidden-velocity test mismatch. No synth/effects DSP changes, no other instruments touched.
+
+## 2026-11-05 — direction selector sync and cyan pitch caps
+
+Reproduced a focused direction selector displaying FWD while patch recall loaded RANDOM into sequencer state. Select controls now repaint from authoritative configuration even while focused (numeric editing remains protected). Direction changes flush immediately; running status displays the audio engine direction and both A/B directions in DUAL 8. Actual audio-clock traces validate FWD, REV, PEND, RANDOM and exit from RANDOM in both banks. Pitch cap faces, borders and glow changed to cyan; amber playhead retained. No DSP/pitch calculation changes. Rollback checkpoint/pre-direction-cyan and Site version 28.

diff --git a/SEQ16_PITCH_ONLY.md b/SEQ16_PITCH_ONLY.md
@@ -8,7 +8,7 @@ The user approved removing ARP + DRIFT and ARP DRIFT. Four combined relationship
 
 ## Playing
 
-The sixteen pink handles retain −12 to +12 semitone offsets and the default [0,7,12,7,3,10,-5,0] repeated twice. Drag, wheel or use arrow keys to edit. Note readouts, step numbers, rest indicators and amber active-step outlines remain. Pitch travel and handles are larger. The existing 1235×149 lower housing, upper panels and horizontal-axis keyboard flip are unchanged.
+The sixteen cyan pitch handles (formerly pink) retain −12 to +12 semitone offsets and the default [0,7,12,7,3,10,-5,0] repeated twice. Drag, wheel or use arrow keys to edit. Note readouts, step numbers, rest indicators and amber active-step outlines remain. Pitch travel and handles are larger. Direction selectors stay in sync with patch recall even while focused; the running status reports actual engine direction, including both banks in DUAL 8. The existing 1235×149 lower housing, upper panels and horizontal-axis keyboard flip are unchanged.
 
 Controls are grouped as PITCH (root, glide and previously implemented optional scale), SEQUENCE (length/rate/direction/gate/velocity/random seed and selected-step rest/accent/probability/gate), PERFORMANCE (root source, four arp relationships, applicable ratio and PROGRAM). Chromatic remains the default; no new scale behaviour is introduced.
 

diff --git a/CONTINUE_CODEX.md b/CONTINUE_CODEX.md
@@ -101,3 +101,5 @@ Latest addition: SEQ16_KEYS_AND_DUAL8.md documents per-slot key/scale, rounds, n
 SEQ16_PITCH_ONLY.md supersedes dual-layer/shared-drift operation described above. Green sequencing/LINK and ARP + DRIFT / ARP DRIFT are removed by user approval; legacy mode migration disables combined operation and explains why. Pink/root/program timing, optional scales and DUAL 8 pitch remain. Use `npm run test:pitch-only`; rollback checkpoint/pre-pitch-only-seq16. See TEST_RESULTS.md for known pre-existing expressive-sound hidden velocity-default assertion.
 
 Pitch-only build published successfully as Site version 28. Source b63c8ff5001b4c8f59e1daf41d2b0930cc5ba018, development code 5236b85320ad32d08ba5b75c381df9d0c605bfbc. Same mikroSEQ URL; version 27 and remote rollback/live-v27-before-pitch-only retained. Verified native deployment and source/archive provenance. See reports/mikroseq-pitch-only-release-verification.json. No development main merge.
+
+Direction/cyan fix: selector repaint now reflects recalled state even while focused; direction changes flush immediately and status reports actual engine directions. Cyan pitch fader caps, amber playhead retained. `npm run test:direction` covers the reproduced mismatch and real FWD/REV/PEND/RANDOM traces. Previous source on checkpoint/pre-direction-cyan.
